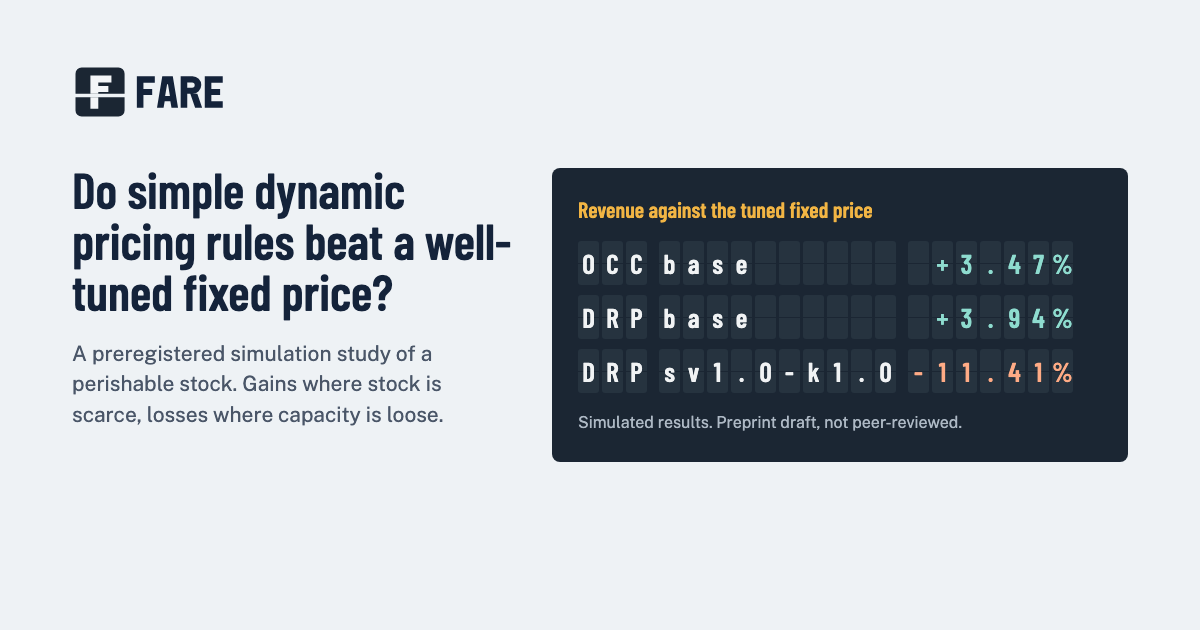
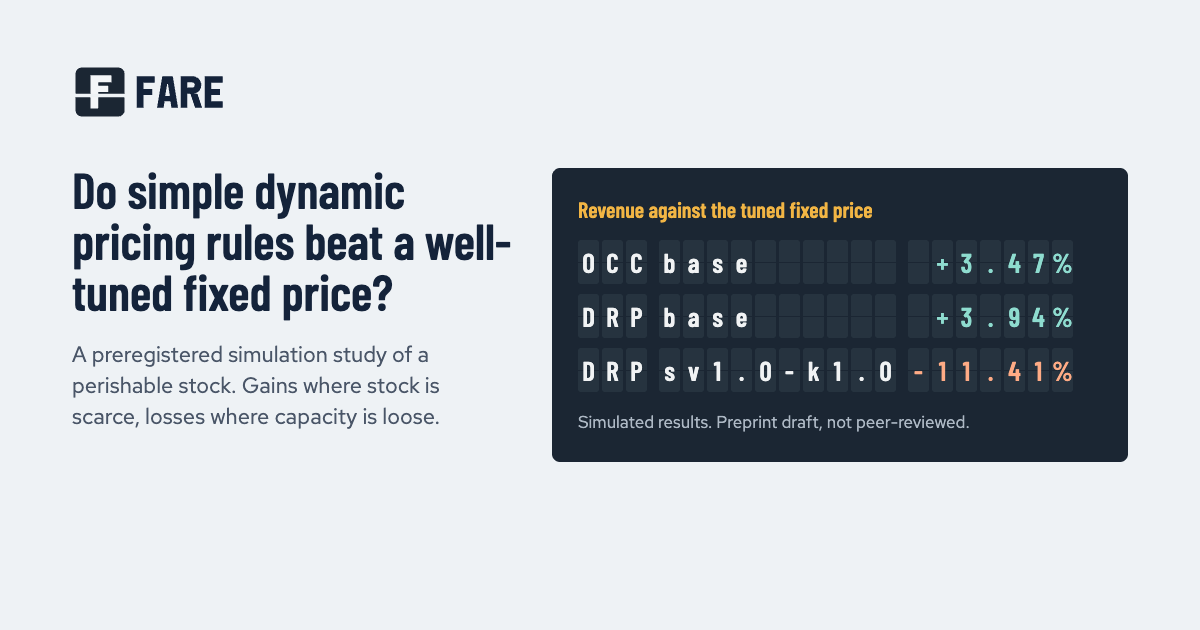
Demo: unique typeface pair across the labs (owner request 2026-11-26)

diff --git a/demo/src/style.css b/demo/src/style.css
@@ -10,14 +10,14 @@
   --measured: #1d4f7a; --exploratory: #7a5300; --assumption: #4d5562; --sandbox: #6a2c6f;
   --error-bg: #fdecec; --error-fg: #8a1111;
   --display: "Barlow Condensed", "Arial Narrow", sans-serif;
-  --text: "Public Sans", "Helvetica Neue", Arial, sans-serif;
+  --text: "Red Hat Text Variable", "Red Hat Text", "Helvetica Neue", Arial, sans-serif;
   --ease-out: cubic-bezier(0.23, 1, 0.32, 1);
   --ease-in-out: cubic-bezier(0.77, 0, 0.175, 1);
   color-scheme: light;
 }
 * { box-sizing: border-box; }
 html { -webkit-text-size-adjust: 100%; scroll-padding-top: 4.5rem; }
-body { margin: 0; background: var(--paper); color: var(--ink); font: 400 17px/1.6 var(--text); font-variant-numeric: tabular-nums; overflow-wrap: break-word; }
+body { margin: 0; background: var(--paper); color: var(--ink); font: 400 18px/1.55 var(--text); font-variant-numeric: tabular-nums; overflow-wrap: break-word; }
 .wrap { max-width: 72rem; margin: 0 auto; padding: 0 16px; }
 @media (min-width: 48rem) { .wrap { padding: 0 32px; } }
 h1, h2, h3, h4 { font-family: var(--display); font-weight: 600; line-height: 1.1; letter-spacing: 0.005em; color: var(--ink); }
@@ -46,8 +46,8 @@ nav::-webkit-scrollbar { display: none; }
 .hero { display: grid; gap: 2rem; padding-top: 2.5rem; padding-bottom: 1rem; align-items: center; }
 @media (min-width: 64rem) { .hero { grid-template-columns: minmax(0, 1fr) minmax(0, 37rem); gap: 3rem; padding-top: 4rem; padding-bottom: 2.5rem; } }
 .hero h1 { font-size: clamp(2.1rem, 5.2vw, 3.5rem); line-height: 1.02; margin: 0 0 1.25rem; max-width: 18ch; }
-.hero .answer { font-size: clamp(1.1rem, 1.9vw, 1.3rem); line-height: 1.5; margin: 0 0 1.25rem; max-width: 40ch; }
-.hero .byline { color: var(--muted); font-size: 0.95rem; margin: 0; max-width: 46ch; }
+.hero .answer { font-size: clamp(1.15rem, 2vw, 1.375rem); line-height: 1.45; margin: 0 0 1.25rem; max-width: 40ch; }
+.hero .byline { color: var(--muted); font-size: 1rem; margin: 0; max-width: 46ch; }
 .hero-board-slot { min-height: 14rem; }
 
 /* Split-flap boards. */
@@ -69,7 +69,7 @@ nav::-webkit-scrollbar { display: none; }
 .hero-board td:last-child { padding-right: 0; }
 .hero-board thead th { font-size: max(0.6em, 13px); }
 .hero-board caption { font-size: max(0.82em, 16px); }
-.board-foot { margin: 0.8rem 0 0; color: var(--board-muted); font-size: 0.8rem; line-height: 1.45; }
+.board-foot { margin: 0.8rem 0 0; color: var(--board-muted); font-size: 0.85rem; line-height: 1.45; }
 @media (max-width: 35rem) { .hero-board .c-season { display: none; } .hero-board table { font-size: clamp(13px, calc((100cqi - 44px) / 16.2), 24px); } .hero-board td:nth-child(3) { padding-right: 0; } }
 
 .matrix { margin: 1.25rem 0 0.5rem; font-size: clamp(15px, 2.3vw, 22px); }
@@ -95,15 +95,15 @@ nav::-webkit-scrollbar { display: none; }
 .wrap > section:not(.sandbox) { padding: 3rem 0 1rem; }
 section > h2 { font-size: clamp(1.75rem, 3.4vw, 2.35rem); margin: 0.35rem 0 0.9rem; }
 .status-label, .note, .meta { color: var(--muted); }
-.meta { font-size: 0.9rem; overflow-wrap: anywhere; }
-.badge { display: inline-block; border: 1px solid var(--line-strong); border-radius: 4px; padding: 0 0.55rem; font-size: 0.875rem; }
+.meta { font-size: 0.95rem; overflow-wrap: anywhere; }
+.badge { display: inline-block; border: 1px solid var(--line-strong); border-radius: 4px; padding: 0 0.55rem; font-size: 0.925rem; }
 
 .label-chip { display: inline-block; margin: 0; font: 600 0.95rem/1.35 var(--display); padding: 0.05rem 0.55rem; border-radius: 3px; border: 1.5px solid currentColor; }
 .chip-measured { color: var(--measured); border-style: solid; }
 .chip-exploratory { color: var(--exploratory); border-style: dashed; }
 .chip-assumption { color: var(--assumption); border-style: dotted; }
 .chip-sandbox { color: var(--sandbox); border-style: double; border-width: 3px; }
-ul.chips { list-style: none; padding: 0; display: grid; gap: 0.55rem; font-size: 0.95rem; margin: 1.25rem 0 0; }
+ul.chips { list-style: none; padding: 0; display: grid; gap: 0.55rem; font-size: 1rem; margin: 1.25rem 0 0; }
 ul.chips li { display: grid; grid-template-columns: 7.5rem minmax(0, 1fr); gap: 0.75rem; align-items: start; }
 ul.chips .label-chip { text-align: center; }
 
@@ -131,7 +131,7 @@ ul.chips .label-chip { text-align: center; }
 
 /* Tables and interval rows. */
 .table-scroll { overflow-x: auto; max-width: 100%; margin: 0.5rem 0 0.75rem; }
-table { border-collapse: collapse; width: 100%; font-size: 0.94rem; }
+table { border-collapse: collapse; width: 100%; font-size: 1rem; }
 caption, p.caption { text-align: left; margin: 1rem 0 0; font: 600 1.1rem/1.25 var(--display); padding: 0.3rem 0; }
 th, td { text-align: left; padding: 0.45rem 0.6rem; border-bottom: 1px solid var(--line); vertical-align: middle; }
 thead th { border-bottom: 2px solid var(--ink); font: 600 0.98rem/1.2 var(--display); }
@@ -153,20 +153,20 @@ table.est tbody th { font-weight: 400; }
 .chart-card { background: var(--ticket); border: 1px solid var(--line); border-radius: 10px; padding: 0.75rem 1rem 0.5rem; margin: 1rem 0; }
 .chart { width: 100%; margin: 0.25rem 0; }
 .chart svg { display: block; }
-.chart .tick { fill: currentColor; color: var(--muted); font-size: 12px; font-family: var(--text); }
+.chart .tick { fill: currentColor; color: var(--muted); font-size: 12.5px; font-family: var(--text); }
 .chart .grid { stroke: #dde3ea; stroke-width: 1; }
 .chart .axis { stroke: var(--ink); stroke-width: 1.5; }
 .chart .lines { clip-path: inset(0 0 0 0); transition: clip-path 900ms var(--ease-out); }
 .chart.pending .lines { clip-path: inset(0 100% 0 0); }
 .line { fill: none; stroke-width: 2.4; stroke-linejoin: round; stroke-linecap: round; }
 .s-fix { stroke: var(--fix); } .s-occ { stroke: var(--occ); } .s-drp { stroke: var(--drp); stroke-width: 2.8; } .s-ref { stroke: var(--ref); }
-ul.legend { list-style: none; padding: 0; margin: 0.25rem 0; display: flex; flex-wrap: wrap; gap: 0.3rem 1.3rem; font-size: 0.92rem; }
+ul.legend { list-style: none; padding: 0; margin: 0.25rem 0; display: flex; flex-wrap: wrap; gap: 0.3rem 1.3rem; font-size: 0.975rem; }
 ul.legend li { display: flex; align-items: center; gap: 0.45rem; }
 
 /* Forms. */
-.field { display: grid; min-width: 0; gap: 0.2rem; font-size: 0.95rem; }
+.field { display: grid; min-width: 0; gap: 0.2rem; font-size: 1rem; }
 .field > span { font-weight: 600; }
-.field small { color: var(--muted); font-size: 0.82rem; }
+.field small { color: var(--muted); font-size: 0.875rem; }
 .field.wide { max-width: 24rem; margin: 0; flex: 1 1 14rem; }
 form.sbx .field.wide { grid-column: 1 / -1; margin: 0; }
 .field input:not([type="checkbox"]), .field select { width: 100%; }
@@ -193,7 +193,7 @@ ol.limits { padding-left: 1.4rem; } ol.limits li { margin: 0.5rem 0; }
   table.est tr { display: grid; grid-template-columns: 1fr 1fr; column-gap: 0.6rem; padding: 0.55rem 0; border-bottom: 1px solid var(--line); }
   table.est th, table.est td { border: 0; padding: 0.1rem 0; }
   table.est tbody th { grid-column: 1 / -1; font-weight: 600; }
-  table.est td[data-label]::before { content: attr(data-label); display: block; font-size: 0.78rem; color: var(--muted); }
+  table.est td[data-label]::before { content: attr(data-label); display: block; font-size: 0.825rem; color: var(--muted); }
   table.est td[data-label="Relative, class"], table.est td.plotcol { grid-column: 1 / -1; }
   table.est td.num { white-space: normal; }
   .plotcol { width: auto; min-width: 0; }
@@ -215,7 +215,7 @@ details { margin: 0.75rem 0; } summary { cursor: pointer; min-height: 44px; disp
 code { overflow-wrap: anywhere; font-size: 0.88em; }
 
 /* Footer. */
-footer.site { background: var(--board); color: #c9d2dc; padding: 2.75rem 0 3rem; font-size: 0.92rem; }
+footer.site { background: var(--board); color: #c9d2dc; padding: 2.75rem 0 3rem; font-size: 0.975rem; }
 footer.site a { color: var(--amber); }
 footer.site :focus-visible { outline-color: var(--amber); }
 .foot-grid { display: grid; gap: 1.5rem 3rem; }

diff --git a/demo/tools/og/og.html b/demo/tools/og/og.html
@@ -3,12 +3,12 @@
 <!-- Source of public/brand/og.png (1200 x 630). Numbers: EXP-001 and EXP-002 relative effects from public/data/results.json. -->
 <html><head><meta charset="utf-8"><style>
 @font-face{font-family:BC;src:url(../../node_modules/@fontsource/barlow-condensed/files/barlow-condensed-latin-600-normal.woff2)}
-@font-face{font-family:PS;src:url(../../node_modules/@fontsource/public-sans/files/public-sans-latin-400-normal.woff2)}
+@font-face{font-family:RHT;src:url(../../node_modules/@fontsource-variable/red-hat-text/files/red-hat-text-latin-wght-normal.woff2);font-weight:300 700}
 html,body{margin:0;width:1200px;height:630px;overflow:hidden}
-body{background:#eef2f5;color:#14233a;font-family:PS;display:grid;grid-template-columns:440px 1fr;gap:40px;padding:64px 72px;box-sizing:border-box}
+body{background:#eef2f5;color:#14233a;font-family:RHT;display:grid;grid-template-columns:440px 1fr;gap:40px;padding:64px 72px;box-sizing:border-box}
 img{height:56px;display:block;margin-bottom:44px}
 h1{font:600 50px/1.02 BC;margin:0 0 22px}
-p{font-size:21px;line-height:1.45;margin:0;color:#4a5668}
+p{font-size:22px;line-height:1.42;margin:0;color:#4a5668}
 .board{background:#1b2633;border-radius:8px;padding:28px 26px;align-self:center}
 .cap{font:600 22px/1.2 BC;color:#f2b544;margin:0 0 18px}
 .row{display:flex;gap:12px;margin:10px 0}
@@ -16,7 +16,7 @@ p{font-size:21px;line-height:1.45;margin:0;color:#4a5668}
 i{font:600 27px/44px BC;font-style:normal;width:21px;height:44px;background:#26333f;color:#f1f3f4;text-align:center;border-radius:3px;position:relative}
 i::after{content:"";position:absolute;left:0;right:0;top:50%;height:1px;background:#1b2633;z-index:0}b{position:relative;z-index:1;font-weight:inherit}
 .gain i{color:#8edccf}.loss i{color:#ffab85}
-.foot{font-size:16px;color:#aeb9c5;margin-top:18px}
+.foot{font-size:17px;color:#aeb9c5;margin-top:18px}
 </style></head><body>
 <div><img src="../../public/brand/fare-lockup.svg" alt=""><h1>Do simple dynamic pricing rules beat a well-tuned fixed price?</h1><p>A preregistered simulation study of a perishable stock. Gains where stock is scarce, losses where capacity is loose.</p></div>
 <div class="board"><p class="cap">Revenue against the tuned fixed price</p><div class="row"><span class="t "><i><b>O</b></i><i><b>C</b></i><i><b>C</b></i></span><span class="t "><i><b>b</b></i><i><b>a</b></i><i><b>s</b></i><i><b>e</b></i><i><b>&nbsp;</b></i><i><b>&nbsp;</b></i><i><b>&nbsp;</b></i><i><b>&nbsp;</b></i><i><b>&nbsp;</b></i><i><b>&nbsp;</b></i></span><span class="t gain"><i><b>&nbsp;</b></i><i><b>+</b></i><i><b>3</b></i><i><b>.</b></i><i><b>4</b></i><i><b>7</b></i><i><b>%</b></i></span></div><div class="row"><span class="t "><i><b>D</b></i><i><b>R</b></i><i><b>P</b></i></span><span class="t "><i><b>b</b></i><i><b>a</b></i><i><b>s</b></i><i><b>e</b></i><i><b>&nbsp;</b></i><i><b>&nbsp;</b></i><i><b>&nbsp;</b></i><i><b>&nbsp;</b></i><i><b>&nbsp;</b></i><i><b>&nbsp;</b></i></span><span class="t gain"><i><b>&nbsp;</b></i><i><b>+</b></i><i><b>3</b></i><i><b>.</b></i><i><b>9</b></i><i><b>4</b></i><i><b>%</b></i></span></div><div class="row"><span class="t "><i><b>D</b></i><i><b>R</b></i><i><b>P</b></i></span><span class="t "><i><b>s</b></i><i><b>v</b></i><i><b>1</b></i><i><b>.</b></i><i><b>0</b></i><i><b>-</b></i><i><b>k</b></i><i><b>1</b></i><i><b>.</b></i><i><b>0</b></i></span><span class="t loss"><i><b>-</b></i><i><b>1</b></i><i><b>1</b></i><i><b>.</b></i><i><b>4</b></i><i><b>1</b></i><i><b>%</b></i></span></div><p class="foot">Simulated results. Preprint draft, not peer-reviewed.</p></div>

diff --git a/demo/src/App.tsx b/demo/src/App.tsx
@@ -82,7 +82,7 @@ export function App() {
               (Claude Code, Anthropic) under the author's direction. The assistant is not an author.
             </p>
             <p>
-              Typefaces: Barlow Condensed (Jeremy Tribby) and Public Sans (USWDS), both under the SIL Open Font
+              Typefaces: Barlow Condensed (Jeremy Tribby) and Red Hat Text (MCKL for Red Hat), both under the SIL Open Font
               License 1.1, self-hosted.
             </p>
           </div>

diff --git a/demo/src/main.tsx b/demo/src/main.tsx
@@ -4,8 +4,7 @@ import { createRoot } from "react-dom/client";
 import { App } from "./App";
 import "@fontsource/barlow-condensed/latin-500.css";
 import "@fontsource/barlow-condensed/latin-600.css";
-import "@fontsource/public-sans/latin-400.css";
-import "@fontsource/public-sans/latin-600.css";
+import "@fontsource-variable/red-hat-text/wght.css";
 import "./style.css";
 
 createRoot(document.getElementById("root")!).render(

diff --git a/progress.md b/progress.md
@@ -646,3 +646,25 @@ Screenshots (desktop 1440 full page, phone 390 in an iframe wrapper, Chrome head
 **Risks and notes.** The Open Graph image URL is absolute to the hosting address in `demo/README.md`. Full-page desktop screenshots were capped at 16,000 px height; the page bottom was checked in a separate viewport shot.
 
 **Next action.** The coordinator deploys the rebuilt demo when the owner approves.
+
+## 2026-11-26: Demo text face replaced, unique typeface pair across the labs (owner request)
+
+Authority: owner request of 2026-11-26 (shared brief `labs/_shared/FONT-UNIQUE-brief.md`): no two lab demos share a typeface. FARE keeps Barlow Condensed as display face and replaces Public Sans with Red Hat Text. Presentation only: no number, data, fixture, test expectation, accessible name or scientific sentence changed. No push, no deploy.
+
+**Changes.** `@fontsource/public-sans` removed; `@fontsource-variable/red-hat-text@5.3.0` added (OFL 1.1, weight axis 300 to 700, used at 400 and 600). Red Hat Text has tabular figures (checked in Chrome: `tnum` digits of equal advance), so numbers stay in the text face with `tabular-nums`. Measured in Chrome: x-height 0.488 em against 0.517 for Public Sans, pangram about 4 per cent narrower; the body moved from 17 px/1.6 to 18 px/1.55 and the small text-face sizes rose by about 6 per cent; display sizes unchanged. The logo is drawn from the display face and was not redrawn. `og.png` re-exported from `tools/og/og.html` with the new face. `demo/DESIGN.md`, `demo/README.md` and the footer font credit updated.
+
+**Commands and actual outputs.**
+
+```
+$ npm uninstall @fontsource/public-sans                removed 1 package
+$ npm_config_before=2026-11-12 npm install --save-exact @fontsource-variable/red-hat-text@5.3.0   added 1 package
+$ npm test                                             Test Files 2 passed (2); Tests 31 passed (31)
+$ npm run build                                        index js 261.34 kB (gzip 81.64 kB); red-hat-text latin woff2 30.09 kB
+$ node tools/a11y_check.mjs dist                       A11Y-CHECK PASS
+$ PYTHONPATH=src .venv/bin/python -m pytest -q tests/test_demo_export.py   4 passed
+$ du -sk dist                                          768 KB on disk; 620,043 bytes
+```
+
+Screenshots (desktop 1440 and phone 390, full page, Chrome headless over CDP, preview on 127.0.0.1:5241, stopped after) reviewed: no wrapping, overflow or clipped label introduced.
+
+**Next action.** The coordinator deploys the rebuilt demo when the owner approves.

diff --git a/demo/DESIGN.md b/demo/DESIGN.md
@@ -29,10 +29,17 @@ On the board, gains print in pale teal `#8EDCCF` and losses in pale orange `#FFA
 
 - **Barlow Condensed** (OFL 1.1), weights 500 and 600: the board glyphs, headlines, navigation, stub labels. Its
   DIN and highway-sign lineage reads as transport signage, and it has tabular figures.
-- **Public Sans** (OFL 1.1), weights 400 and 600: body text and tables. A plain, open signage-office sans with
-  tabular figures, clearly distinct from the condensed display face.
+- **Red Hat Text** (OFL 1.1), variable, used at 400 and 600: body text and tables. It replaced Public Sans on
+  2026-11-26 so that no two lab demos share a typeface. Red Hat Text was drawn for small sizes and screens: open
+  apertures, round wide bowls and a calm, slightly friendly rhythm that reads like the printed small type on a
+  ticket or itinerary, next to the hard condensed signage of the board. It has tabular figures (`tnum`), which the
+  page turns on for every number set in the text face.
 
-Scale (1.25 minor third on a 17 px body): 13.6, 17, 21, 26.5, 33, 41, 52 px. Body line length 68ch maximum.
+Scale (1.25 minor third on an 18 px body): 14.4, 18, 22.5, 28, 35, 44, 55 px. Body line length 68ch maximum.
+Red Hat Text has a lower x-height than Public Sans (0.49 against 0.52 of the em, measured in Chrome) and sets
+about 4 per cent narrower, so the body moved from 17 px to 18 px, line height from 1.6 to 1.55, and the small
+text sizes (captions, legends, field notes, footer, chart ticks) rose by about 6 per cent to keep the same
+apparent size. Display sizes are unchanged.
 
 ## Layout
 
@@ -44,7 +51,7 @@ out to the full content width.
 | [tile F] FARE   Board  Timelines  Results  Checks  Assumptions  Sandbox    |  sticky, compact
 +---------------------------------------------------------------------------+
 | Question (Barlow Condensed 52)         | +-------- board slate --------+  |
-| Answer sentence (Public Sans 21)       | | Rule Market   vs FIX  /season | |
+| Answer sentence (Red Hat Text 22)      | | Rule Market   vs FIX  /season | |
 | status line, author line               | | OCC  base     +3.47%  +407.04 | |
 |                                        | | DRP  base     +3.94%  +462.08 | |
 |                                        | | DRP  sv1.0..  -11.41% -815.0  | |

diff --git a/demo/README.md b/demo/README.md
@@ -21,7 +21,7 @@ The page has its own brand: a light itinerary carrying split-flap departure boar
 | Component | Version | Licence | Use |
 |---|---|---|---|
 | Barlow Condensed (Jeremy Tribby), via `@fontsource/barlow-condensed` | 5.3.0 | SIL Open Font License 1.1 | display type and board glyphs, weights 500 and 600, Latin subset, self-hosted |
-| Public Sans (USWDS), via `@fontsource/public-sans` | 5.3.0 | SIL Open Font License 1.1 | body text and tables, weights 400 and 600, Latin subset, self-hosted |
+| Red Hat Text (MCKL for Red Hat), via `@fontsource-variable/red-hat-text` | 5.3.0 | SIL Open Font License 1.1 | body text and tables, variable weight axis 300 to 700 (the page uses 400 and 600), upright Latin and Latin Extended files loaded by unicode range, self-hosted |
 
 ## Data
 
